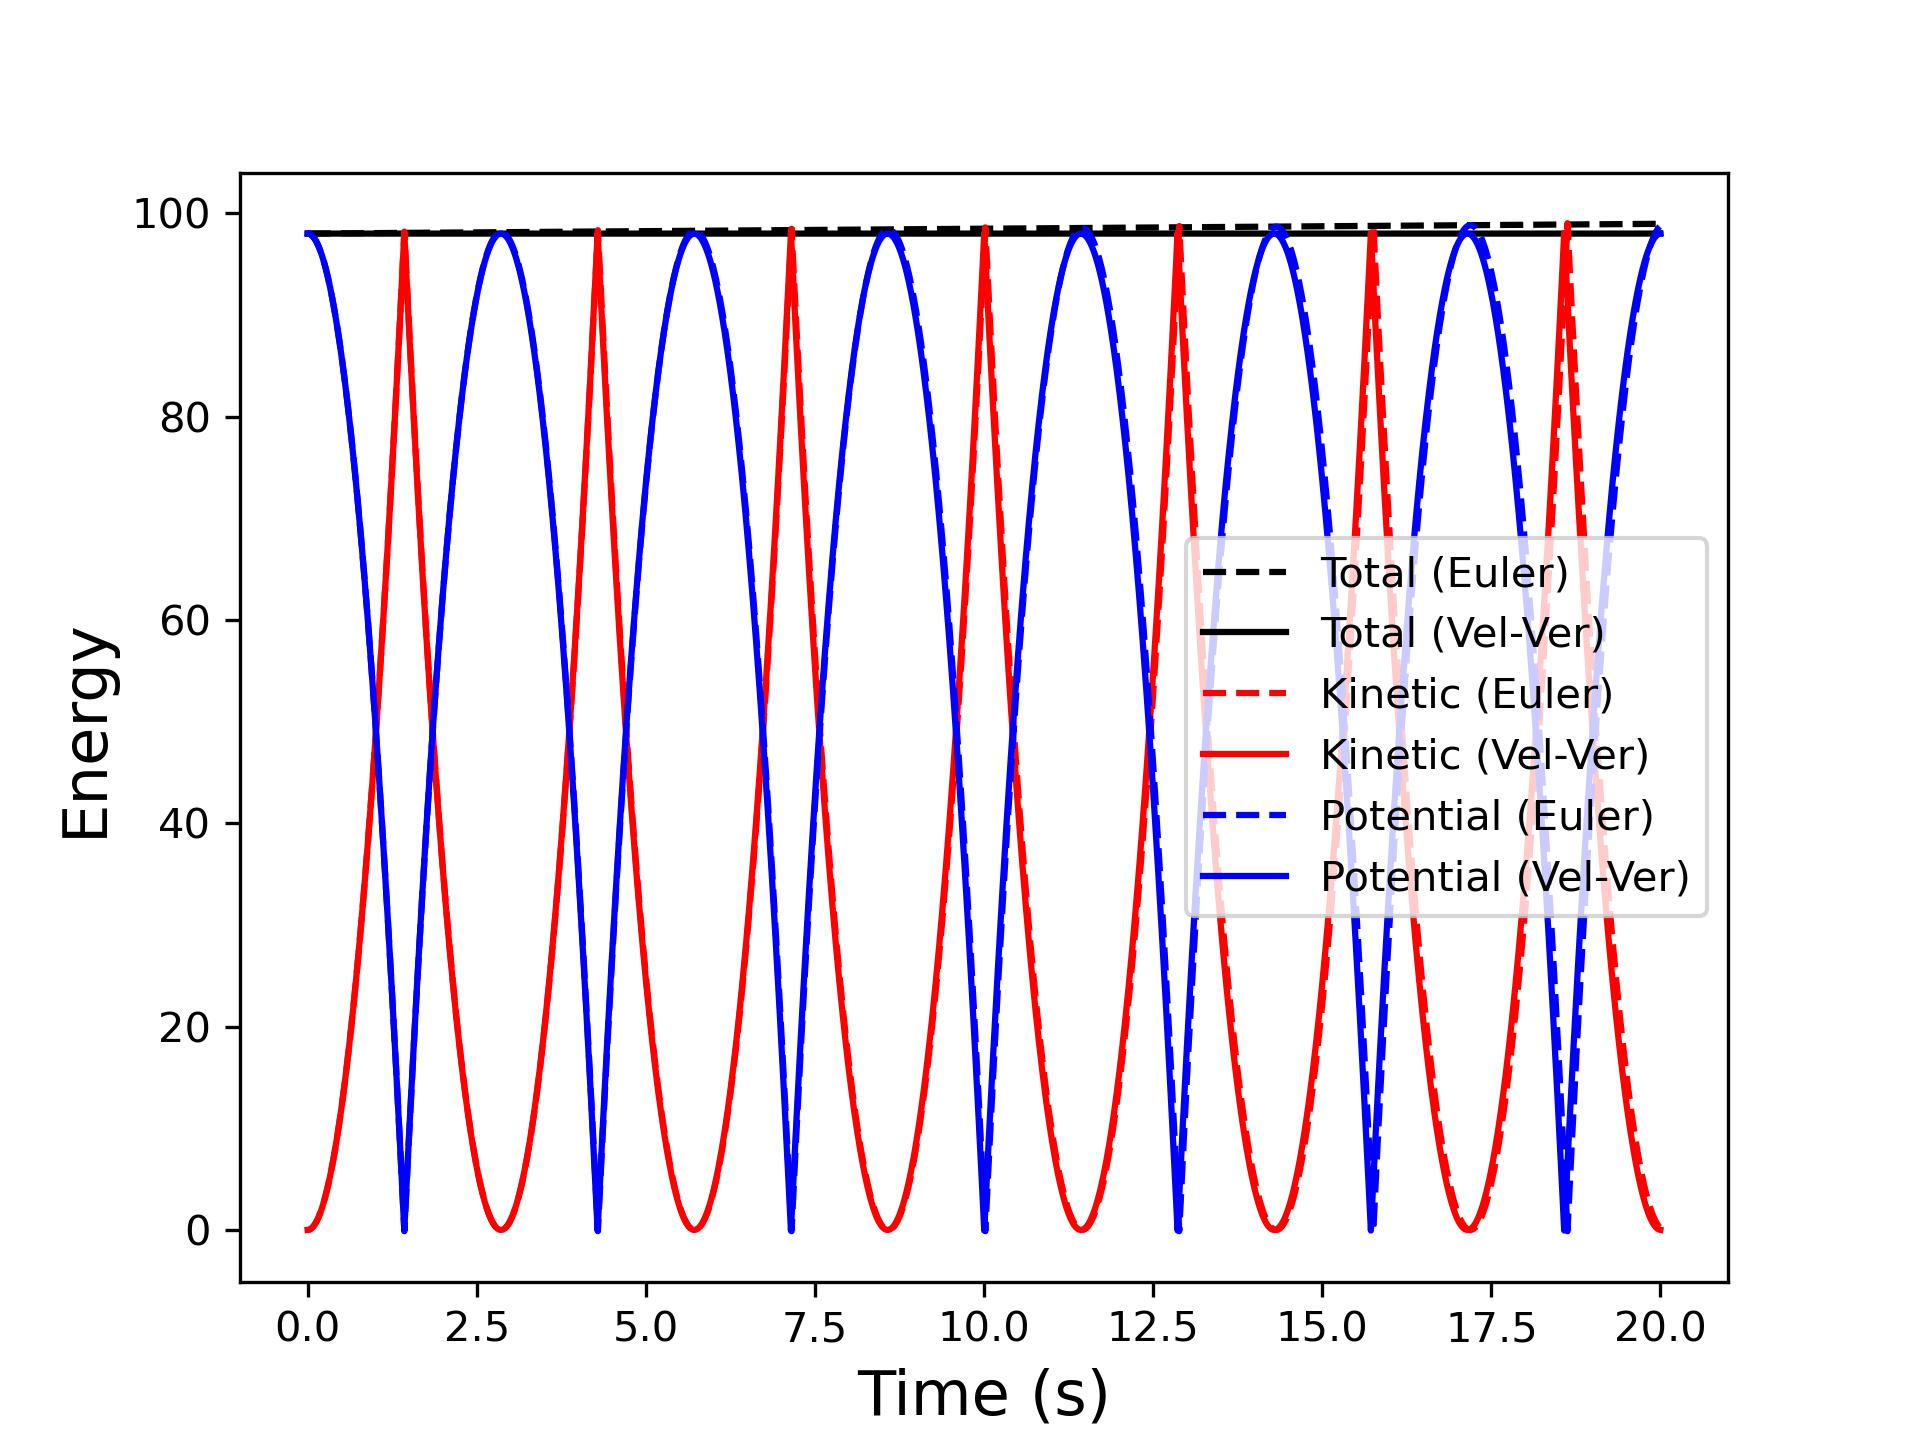
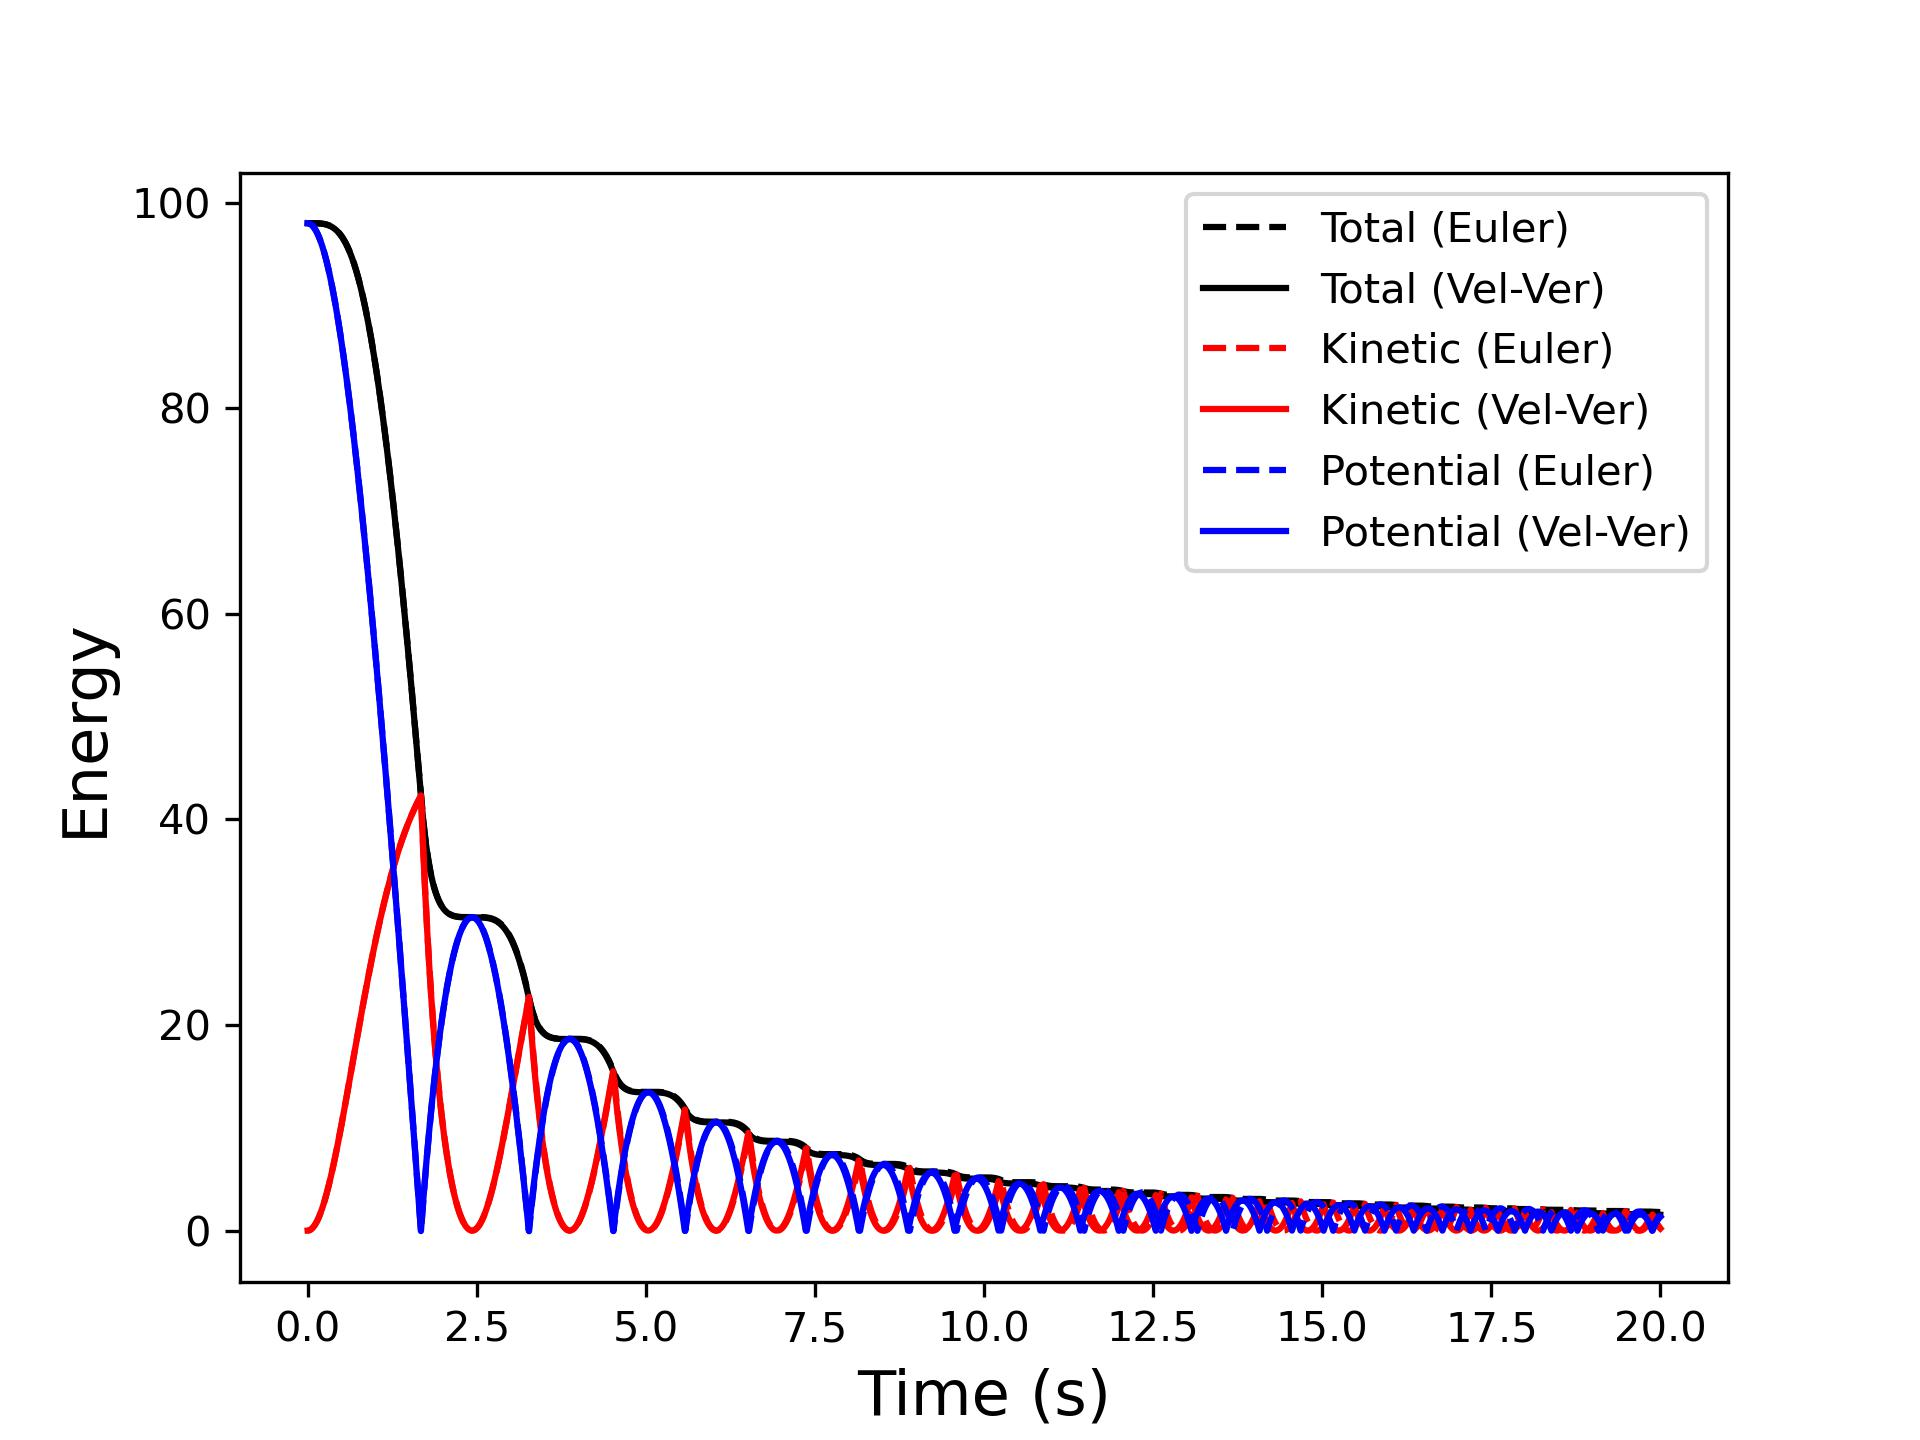
Updated bouncing ball

diff --git a/notes/codes/Chapter_5/5.2_Second_Order_ODEs/5.2.2_Bouncing_Ball_Velocity_Verlet.py b/notes/codes/Chapter_5/5.2_Second_Order_ODEs/5.2.2_Bouncing_Ball_Velocity_Verlet.py
@@ -30,8 +30,8 @@ def getGlobals():
     BOUNCE = True # If not bounce, we stop the ball
 
     global AIR_FRICTION, FRICTION_CONSTANT
-    AIR_FRICTION      = False
-    FRICTION_CONSTANT = 0.1 # m/s^2 -- Units of Acceleration
+    AIR_FRICTION      = True
+    FRICTION_CONSTANT = 0.1 # 1/s -- Units of Acceleration
 
     global E_KINETIC_EU, E_POTENTIAL_EU, E_TOTAL_EU
     global E_KINETIC_VV, E_POTENTIAL_VV, E_TOTAL_VV
@@ -63,7 +63,7 @@ def Euler_Propagate():
         v_t_EU[step+1] = v_t_EU[step] + dT * GRAV_CONST 
 
         if ( AIR_FRICTION == True ): # Lose energy due to air friction
-            v_t_EU[step+1] = v_t_EU[step+1] - dT * FRICTION_CONSTANT * v_t_EU[step+1]
+            v_t_EU[step+1] = v_t_EU[step+1] - np.sign(v_t_EU[step+1]) * dT * FRICTION_CONSTANT * v_t_EU[step+1]**2
 
         E_KINETIC_EU[step+1], E_POTENTIAL_EU[step+1], E_TOTAL_EU[step+1] = get_total_energy(h_t_EU[step+1],v_t_EU[step+1])
 
@@ -97,7 +97,7 @@ def Velocity_Verlet_Propagate():
 
         # Approximate addition of air friction. We could add to VV scheme if we wanted to be better.
         if ( AIR_FRICTION == True ): # Lose energy due to air friction
-            v_t_VV[step+1] -= dT * FRICTION_CONSTANT * v_t_VV[step+1]
+            v_t_VV[step+1] -= np.sign(v_t_VV[step+1]) * dT * FRICTION_CONSTANT * v_t_VV[step+1]**2
 
         E_KINETIC_VV[step+1], E_POTENTIAL_VV[step+1], E_TOTAL_VV[step+1] = get_total_energy(h_t_VV[step+1],v_t_VV[step+1])
 

diff --git a/notes/codes/Chapter_5/5.2_Second_Order_ODEs/5.2.1_Bouncing_Ball.py b/notes/codes/Chapter_5/5.2_Second_Order_ODEs/5.2.1_Bouncing_Ball.py
@@ -16,12 +16,17 @@ def getGlobals():
 
     TMIN   = 0.0
     TMAX   = 20.0
-    dT     = 1.0 # Convergence parameter
+    dT     = 0.001 # Convergence parameter
 
     TIME_GRID = np.arange( TMIN, TMAX, dT )
     NSTEPS = len(TIME_GRID)
     h_t = np.zeros( NSTEPS ) # Time-dependent Height of Ball
     v_t = np.zeros( NSTEPS ) # Time-dependent Velocity of Ball
+
+
+    global AIR_FRICTION, FRICTION_CONSTANT
+    AIR_FRICTION      = True
+    FRICTION_CONSTANT = 0.1 # m/s^2 -- Units of Acceleration
 
     global DATA_DIR
     DATA_DIR = "5.2.1_Bouncing_Ball"
@@ -35,12 +40,23 @@ def Euler_Propagate():
     for step in range( NSTEPS-1 ):
 
         h_t[step+1] = h_t[step] + dT * v_t[step]
-        v_t[step+1] = v_t[step] + dT * GRAV_CONST
+        v_t[step+1] = v_t[step] + dT * GRAV_CONST 
+
+        if ( AIR_FRICTION == True ): # Lose energy due to air friction
+            v_t[step+1] = v_t[step+1] - np.sign(v_t[step+1]) * dT * FRICTION_CONSTANT * v_t[step+1]**2
+
+        if ( h_t[step+1] < 0.0 ): # Can't go through the floor...
+            h_t[step+1] *= -1 # Put back to above ground
+            v_t[step+1] *= -1 # Switch direction of motion
+
+
+
 
 
 def plot():
 
     plt.plot( TIME_GRID, h_t )
+    plt.ylim(0,10)
     plt.xlabel("Time, s", fontsize=15)
     plt.ylabel("Height, m", fontsize=15)
     plt.title("Bouncing Ball ???", fontsize=15)
